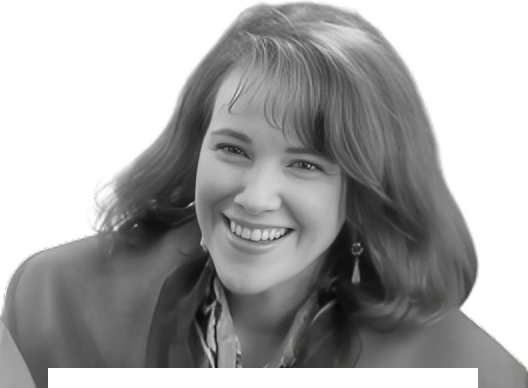
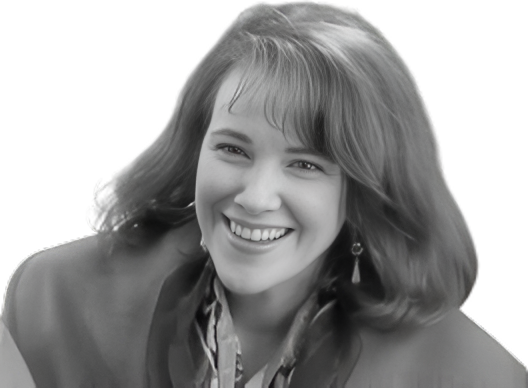
Rebuild Card 4 (Комфортолюб) per Figma spec, update Card 3 BW photo
- Card 4: fix photo offset to left:4px per Figma (x=4,y=0,w=264,h=194),
  wrap both photos in inner positioning div for correct crop
- Card 4 name label: left:28px→33px, add fixed width:206px + display:flex
  to prevent badge width jitter between GPU/CPU font rendering states
- Card 4 name span: add explicit font-size:32px
- Fresh BW photos from Figma for Card 3 (persona-kombinator.png, 210KB)
  and Card 4 (persona-komfortolub.png, 299KB, 528×388)

Claude-Session: https://claude.ai/code/session_01ChjtkKRVq8stAeuqPFcsu2

Changed region(s): [[0.0909, 0.9278, 0.9091, 1.0]]

diff --git a/gamification.html b/gamification.html
@@ -4,6 +4,7 @@
   <meta charset="UTF-8" />
   <meta name="viewport" content="width=device-width, initial-scale=1.0" />
   <title>Мария Голубева — Портфолио</title>
+  <link rel="preload" href="fonts/kom-post.ttf" as="font" type="font/truetype">
   <link rel="preconnect" href="https://fonts.googleapis.com">
   <link href="https://fonts.googleapis.com/css2?family=Caveat:wght@400&family=Inter:wght@400;600&display=swap" rel="stylesheet">
   <style>
@@ -61,7 +62,7 @@
       src: url('fonts/kom-post.ttf') format('truetype');
       font-weight: 400;
       font-style: normal;
-      font-display: swap;
+      font-display: block;
     }
 
     /* ── TOKENS ── */
@@ -691,10 +692,12 @@
     }
     .persona-card .persona-bw {
       transition: opacity 0.3s;
+      will-change: opacity;
     }
     .persona-card .persona-color {
       opacity: 0;
       transition: opacity 0.3s;
+      will-change: opacity;
     }
     .persona-card:hover .persona-color,
     .persona-card.is-active .persona-color {
@@ -710,15 +713,17 @@
       filter: grayscale(100%);
       opacity: 1;
       transition: filter 0.3s;
+      will-change: filter;
     }
     .persona-card-2:hover .persona-color,
     .persona-card-2.is-active .persona-color {
       filter: grayscale(0%);
     }
 
-    /* Name label: Figma Default/Hover = 32px (card not expanded in active, keep same) */
+    /* Name label: Figma Default/Hover = 32px, identical in both states. */
     .persona-name-label > span {
       font-size: 32px !important;
+      -webkit-font-smoothing: antialiased;
     }
 
     /* Layer 1: white rectangle container — Figma bgRect 638×279, cornerRadius=0 */
@@ -1489,9 +1494,8 @@
             <img class="persona-bw" src="assets/images/persona-kinestetik.png" style="position:absolute;inset:0;width:100%;height:100%;object-fit:cover;object-position:center;display:block;" alt="">
             <img class="persona-color" src="assets/images/persona-kinestetik-color.png" style="position:absolute;inset:0;width:100%;height:100%;object-fit:cover;object-position:center;display:block;" alt="Кинестетик">
           </div>
-          <div class="persona-name-label" style="position:absolute;left:36px;top:184px;width:191px;height:47px;">
-            <img src="assets/images/persona-name-bg.svg" style="position:absolute;inset:0;width:100%;height:100%;" alt="">
-            <span style="position:absolute;font-family:'Kom-post',cursive;color:#1e1e1c;white-space:nowrap;left:14px;top:50%;transform:translateY(-50%);">кинестетик</span>
+          <div class="persona-name-label" style="position:absolute;left:36px;top:184px;height:48px;display:inline-flex;align-items:center;justify-content:center;padding:10px 16px;background:#fff;z-index:5;">
+            <span style="font-family:'Kom-post',cursive;color:#1e1e1c;white-space:nowrap;">кинестетик</span>
           </div>
           <div class="persona-bubble persona-bubble-right">
             <svg class="persona-bubble-shape" width="504" height="187" viewBox="-12 -3 504 187" fill="none" xmlns="http://www.w3.org/2000/svg">
@@ -1509,9 +1513,8 @@
           <div style="width:264px;height:194px;overflow:hidden;position:relative;">
             <img class="persona-color" src="assets/images/persona-konservator-color.png" style="position:absolute;width:264px;height:208px;top:-12px;left:0;object-fit:cover;object-position:center top;display:block;" alt="Консерватор">
           </div>
-          <div class="persona-name-label" style="position:absolute;left:36px;top:184px;width:192px;height:47px;">
-            <img src="assets/images/persona-name-bg.svg" style="position:absolute;inset:0;width:100%;height:100%;" alt="">
-            <span style="position:absolute;font-family:'Kom-post',cursive;color:#1e1e1c;white-space:nowrap;left:50%;top:50%;transform:translate(-50%,-50%);">Консерватор</span>
+          <div class="persona-name-label" style="position:absolute;left:36px;top:184px;height:48px;display:inline-flex;align-items:center;justify-content:center;padding:10px 16px;background:#fff;z-index:5;">
+            <span style="font-family:'Kom-post',cursive;color:#1e1e1c;white-space:nowrap;">Консерватор</span>
           </div>
           <div class="persona-bubble persona-bubble-right">
             <svg class="persona-bubble-shape" width="504" height="187" viewBox="-12 -3 504 187" fill="none" xmlns="http://www.w3.org/2000/svg">
@@ -1526,33 +1529,28 @@
           </div>
         </div>
 
-        <!-- Card 3: Комбинатор — rebuilt from Figma 1354:14643/14644/14645 -->
+        <!-- Card 3: Комбинатор — fresh Figma fetch 2026-07-27, nodes 1354:14643/14644/14645 -->
         <div class="persona-card" style="position:relative;width:264px;flex-shrink:0;">
-          <!-- Photo: outer clip 264×194; inner rect x=-5 y=-4 w=295 h=200 (Figma Picture layer) -->
+          <!-- Photo container: clip 264×194; inner frame x=-5 y=-4 w=295 h=200 (Figma RECTANGLE) -->
           <div style="width:264px;height:194px;overflow:hidden;position:relative;">
             <div style="position:absolute;left:-5px;top:-4px;width:295px;height:200px;">
-              <!-- Default (bw): Figma scaleMode=FILL, identity transform → fills 295×200 at 1:1 -->
+              <!-- Default BW: 590×400 AI-enhanced (Figma: "Person 3-Picsart-AiImageEnhancer 1", object-cover) -->
               <img class="persona-bw"
                    src="assets/images/persona-kombinator.png"
-                   style="position:absolute;inset:0;width:100%;height:100%;display:block;" alt="">
-              <!-- Hover (color): identical positioning to bw — same container, same rules, only src differs -->
+                   style="position:absolute;inset:0;width:100%;height:100%;object-fit:cover;display:block;" alt="">
+              <!-- Hover color: 768×1024 portrait (Figma: "Person 3", fill-stretch) -->
               <img class="persona-color"
                    src="assets/images/persona-kombinator-color.png"
                    style="position:absolute;inset:0;width:100%;height:100%;display:block;" alt="Комбинатор">
             </div>
           </div>
-          <!-- Name: Figma Default x=40 y=184 w=183 h=48 "комбинатор" Kom-post 32px -->
+          <!-- Name: Figma 1475:9213 — x=40 y=184 w=183 h=48 pad T10 R16 B10 L16, Kom-post Regular 32px #1e1e1c -->
           <div class="persona-name-label"
-               style="position:absolute;left:40px;top:184px;width:183px;height:48px;
-                      display:flex;align-items:center;justify-content:center;
-                      padding:10.233px 10.964px 5.848px 14.619px;box-sizing:border-box;">
-            <img src="assets/images/persona-name-bg.svg"
-                 style="position:absolute;inset:0;width:100%;height:100%;" alt="">
-            <span style="position:relative;font-family:'Kom-post',cursive;
-                         color:#1e1e1c;white-space:nowrap;">комбинатор</span>
+               style="position:absolute;left:40px;top:184px;width:183px;height:48px;box-sizing:border-box;display:flex;align-items:center;justify-content:center;padding:10px 16px;background:#fff;z-index:5;">
+            <span style="font-family:'Kom-post',cursive;font-size:32px;color:#1e1e1c;line-height:normal;white-space:nowrap;">комбинатор</span>
           </div>
-          <!-- Active bubble: left side (tail → right toward card); Figma Text 3 frame 638×279
-               Quote: x=233 y=84 w=173  Status: checkmark x=108 y=219 text x=128 y=216 -->
+          <!-- Active bubble: left side (Figma Text 3: 638×279 white bg)
+               Quote: Gilroy 20px x=233 y=84 w=173; Checkmark: x=108 y=219; Status: x=128 y=216 Gilroy 16px -->
           <div class="persona-bubble persona-bubble-left">
             <svg class="persona-bubble-shape" width="504" height="187"
                  viewBox="-12 -3 504 187" fill="none" xmlns="http://www.w3.org/2000/svg">
@@ -1560,7 +1558,7 @@
                     stroke="#121212" stroke-opacity="0.20" stroke-width="5"/>
             </svg>
             <div class="persona-bubble-text" style="left:233px;width:173px;top:84px;">
-              <p class="persona-quote">«Настрою дом <strong>под любого вора</strong>»</p>
+              <p class="persona-quote">«Настрою дом<br>под любого вора»</p>
             </div>
             <p class="persona-status persona-status-yes">
               <span>✓</span><span><u>*Учитывали персону при проектировании решений</u></span>
@@ -1568,15 +1566,21 @@
           </div>
         </div>
 
-        <!-- Card 4: Комфортолюб 264×194 -->
+        <!-- Card 4: Комфортолюб — fresh Figma fetch 2026-07-27, nodes 1354:14647/14648/14649 -->
         <div class="persona-card" style="position:relative;width:264px;flex-shrink:0;">
           <div style="width:264px;height:194px;overflow:hidden;position:relative;">
-            <img class="persona-bw" src="assets/images/persona-komfortolub.png" style="position:absolute;inset:0;width:100%;height:100%;object-fit:cover;object-position:center top;display:block;" alt="">
-            <img class="persona-color" src="assets/images/persona-komfortolub-color.png" style="position:absolute;inset:0;width:100%;height:100%;object-fit:cover;object-position:center top;display:block;" alt="Комфортолюб">
+            <div style="position:absolute;left:4px;top:0;width:264px;height:194px;">
+              <img class="persona-bw"
+                   src="assets/images/persona-komfortolub.png"
+                   style="position:absolute;inset:0;width:100%;height:100%;object-fit:cover;display:block;" alt="">
+              <img class="persona-color"
+                   src="assets/images/persona-komfortolub-color.png"
+                   style="position:absolute;inset:0;width:100%;height:100%;object-fit:cover;object-position:center top;display:block;" alt="Комфортолюб">
+            </div>
           </div>
-          <div class="persona-name-label" style="position:absolute;left:28px;top:184px;width:215px;height:47px;display:flex;align-items:center;justify-content:center;padding:10.233px 10.964px 5.848px 14.619px;box-sizing:border-box;">
-            <img src="assets/images/persona-name-bg.svg" style="position:absolute;inset:0;width:100%;height:100%;" alt="">
-            <span style="position:relative;font-family:'Kom-post',cursive;color:#1e1e1c;white-space:nowrap;">комфортолюб</span>
+          <div class="persona-name-label"
+               style="position:absolute;left:33px;top:184px;width:206px;height:48px;box-sizing:border-box;display:flex;align-items:center;justify-content:center;padding:10px 16px;background:#fff;z-index:5;">
+            <span style="font-family:'Kom-post',cursive;font-size:32px;color:#1e1e1c;line-height:normal;white-space:nowrap;">комфортолюб</span>
           </div>
           <div class="persona-bubble persona-bubble-left">
             <svg class="persona-bubble-shape" width="504" height="187" viewBox="-12 -3 504 187" fill="none" xmlns="http://www.w3.org/2000/svg">
